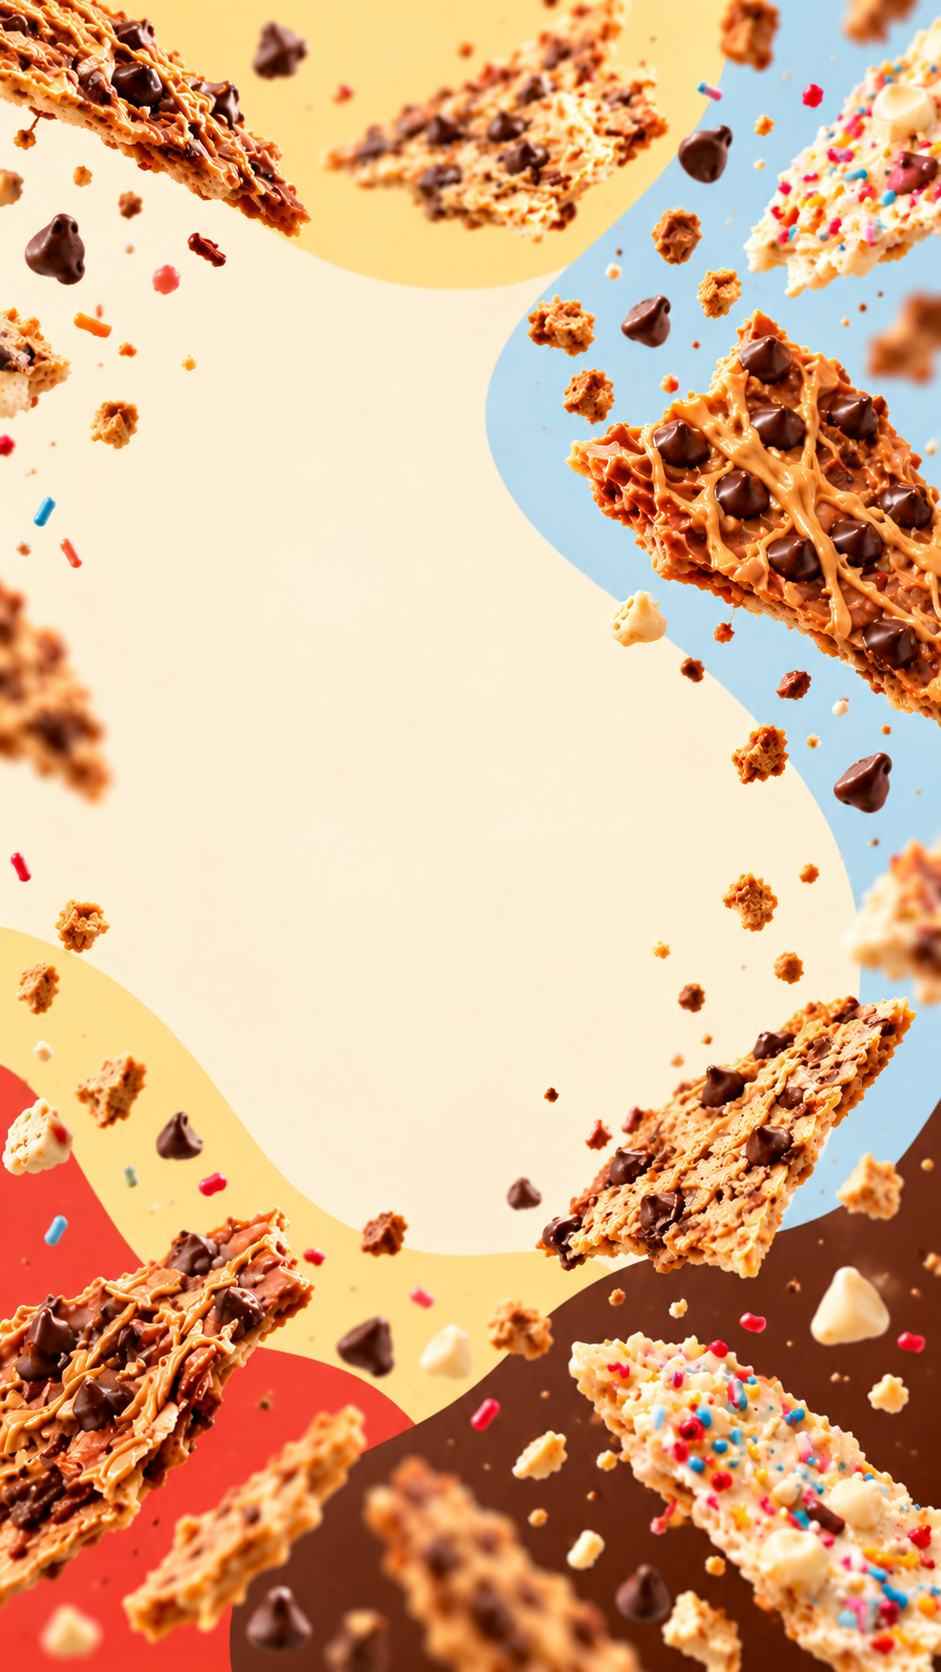
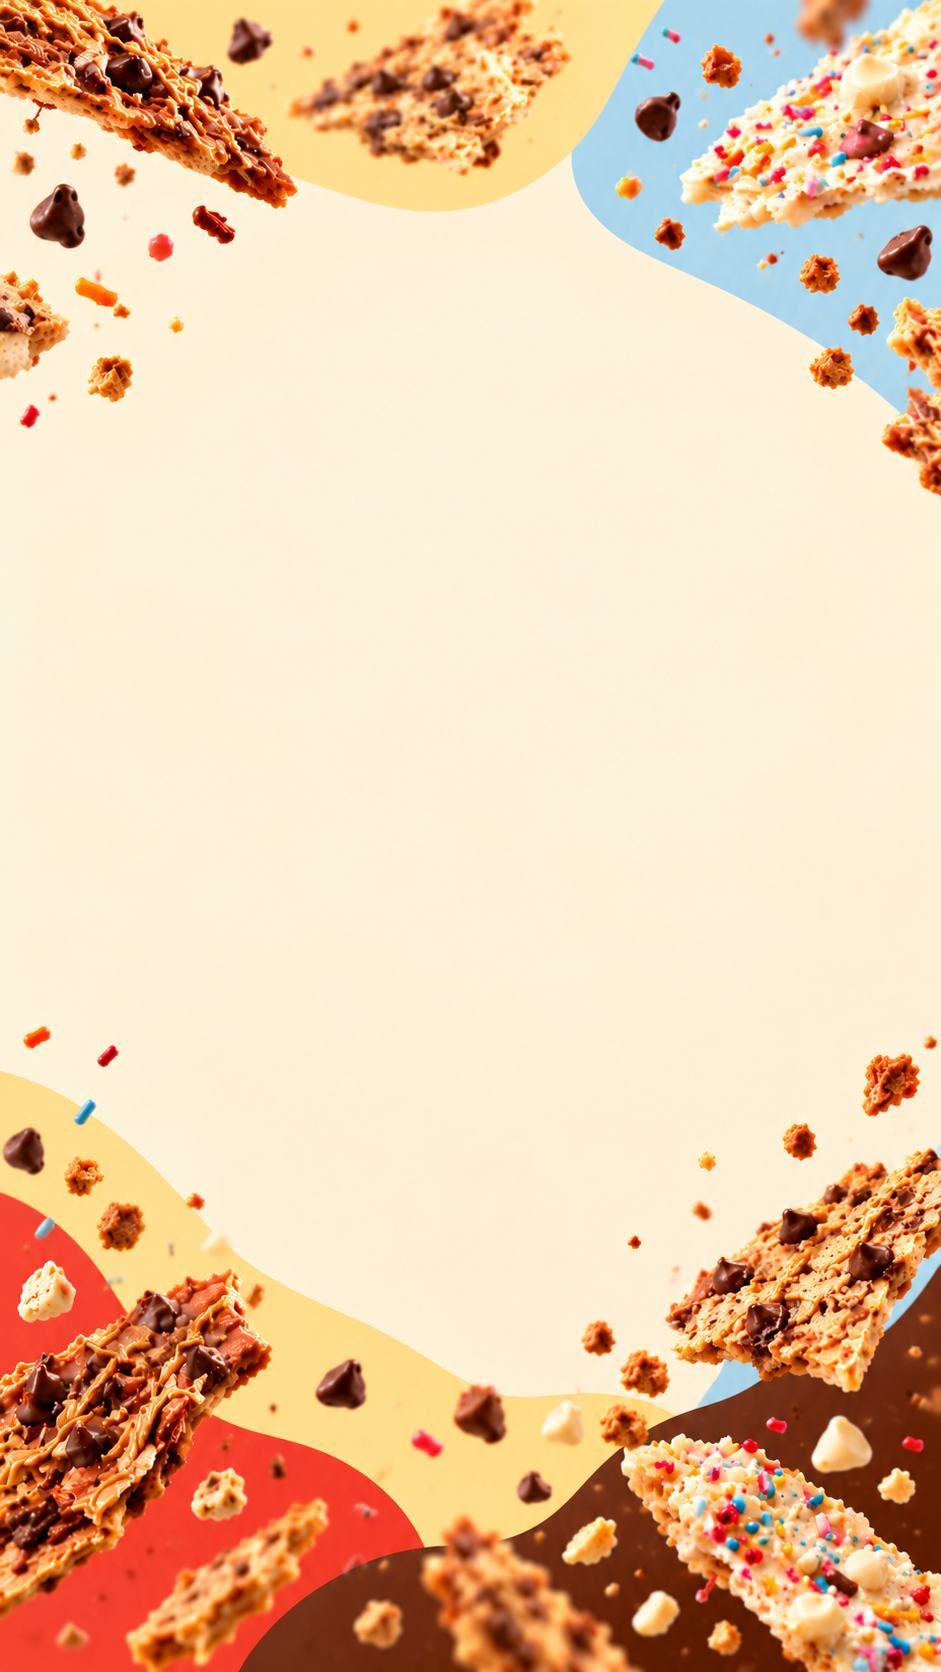
Use the wider-cream portrait for the mobile hero.
Phones still load a cover-centered portrait behind the headline, Shop All, and pouches, compressed as WebP and JPEG.

diff --git a/index.html b/index.html
@@ -40,8 +40,8 @@
   <main id="main">
     <section class="hero hero-launch" id="top">
       <picture class="hero-backdrop">
-        <source media="(max-width: 768px)" type="image/webp" srcset="assets/hero-bg-mobile.webp" />
-        <source media="(max-width: 768px)" type="image/jpeg" srcset="assets/hero-bg-mobile.jpg" />
+        <source media="(max-width: 768px)" type="image/webp" srcset="assets/hero-bg-mobile.webp?v=20261014-v2" />
+        <source media="(max-width: 768px)" type="image/jpeg" srcset="assets/hero-bg-mobile.jpg?v=20261014-v2" />
         <source type="image/avif" srcset="assets/hero-bg-640.avif 640w, assets/hero-bg-1100.avif 1100w, assets/hero-bg-1672.avif 1672w" sizes="100vw" />
         <source type="image/webp" srcset="assets/hero-bg-640.webp 640w, assets/hero-bg-1100.webp 1100w, assets/hero-bg-1672.webp 1672w" sizes="100vw" />
         <img src="assets/hero-bg-1100.jpg" srcset="assets/hero-bg-640.jpg 640w, assets/hero-bg-1100.jpg 1100w, assets/hero-bg-1672.jpg 1672w" sizes="100vw" alt="" width="1672" height="941" decoding="async" fetchpriority="high" />
